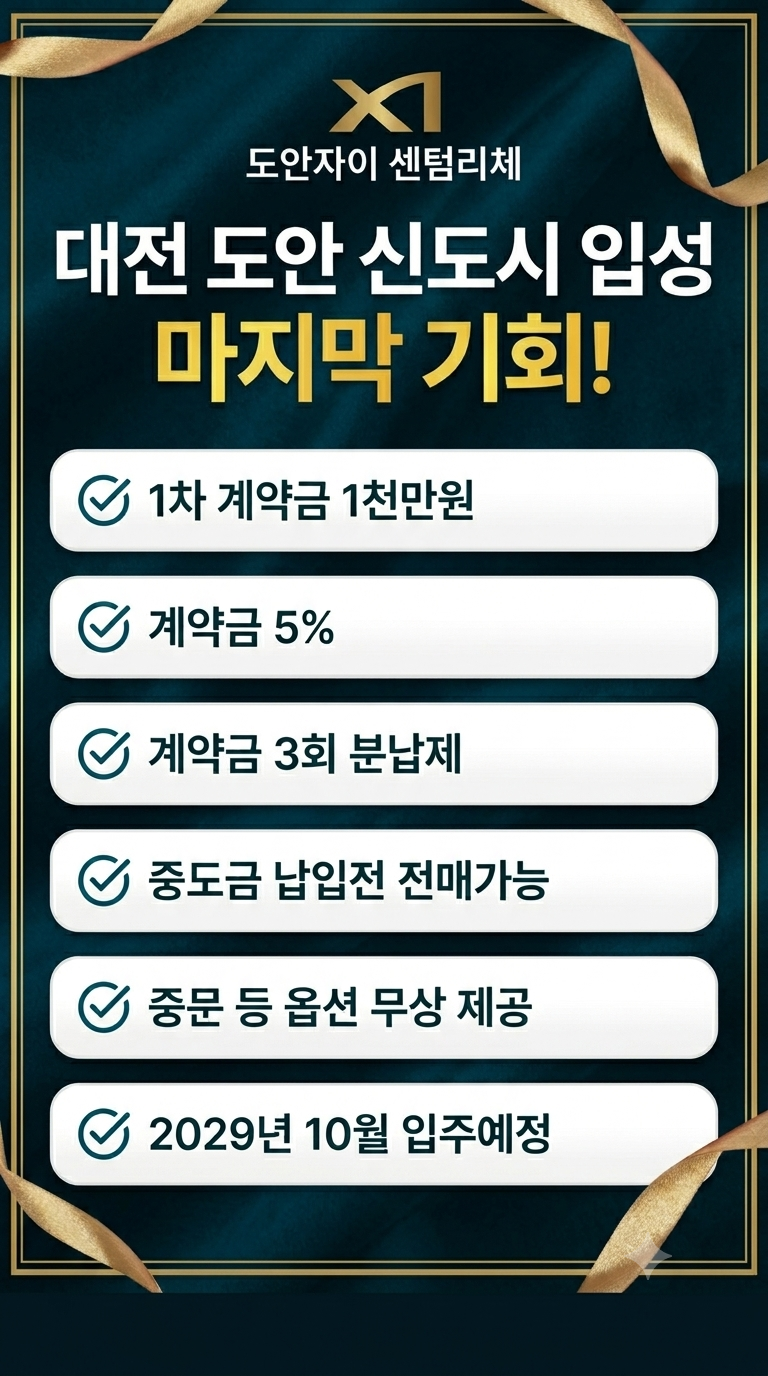
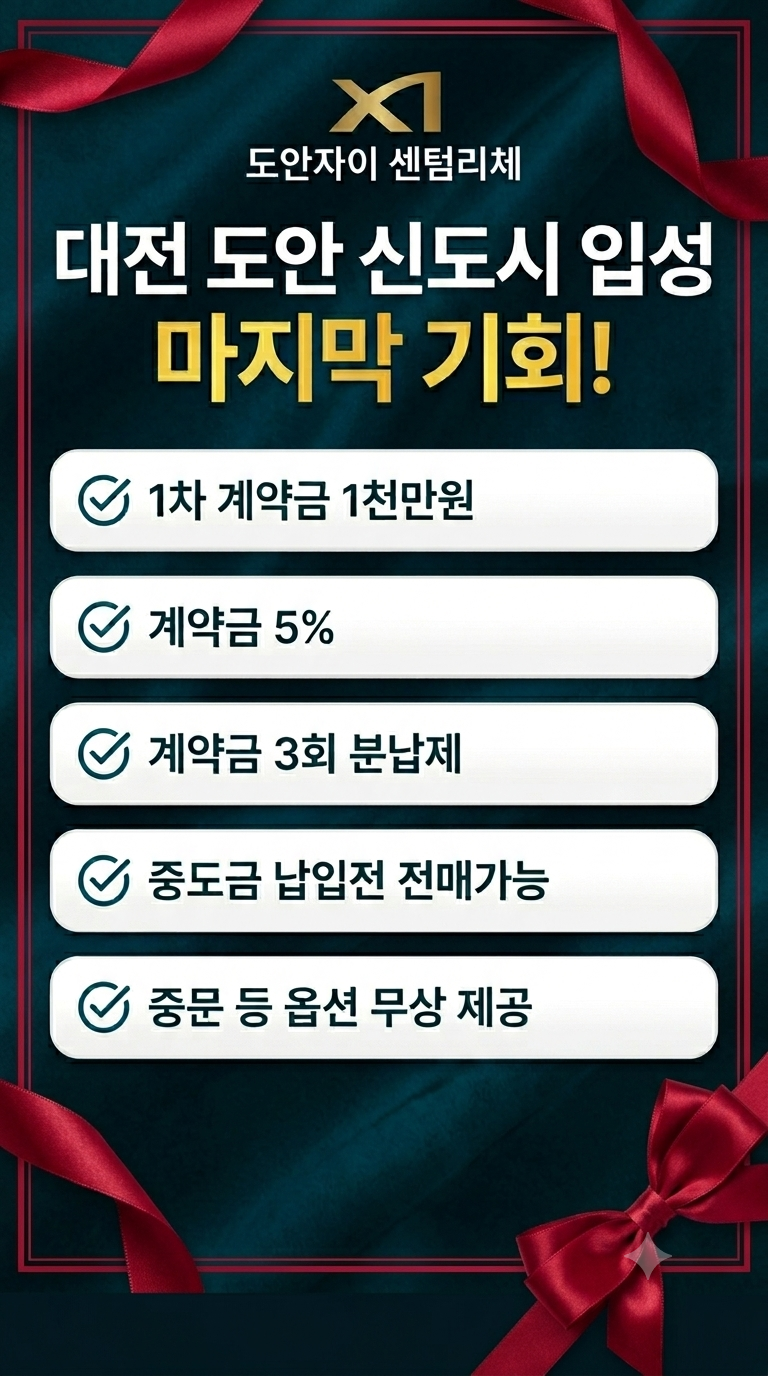
chore(leadform): Apps Script 엔드포인트 갱신(메일 수신자·연락처 텍스트서식 반영본)

Changed region(s): [[0.0, 0.0, 1.0, 1.0]]

diff --git a/src/data/site.ts b/src/data/site.ts
@@ -31,7 +31,7 @@ export const site = {
    *  → 백엔드 없이 동작하는 방법(택1): Formspree / Google Apps Script / 네이버 폼 등
    *  → endpoint 가 비어 있으면 "전화/문자"로 유도하는 폴백 동작 */
   leadForm: {
-    endpoint: 'https://script.google.com/macros/s/AKfycbytFDVaRpF9hnk3ggbSmFMRg1UvjKZEr00kS1Tb8xtImI959HwJ07KSWohAIYPEvazK/exec', // Google Apps Script 웹앱 → 구글 시트 누적
+    endpoint: 'https://script.google.com/macros/s/AKfycbxNIS2ha8LxXu67Jet-aUiRZOWFDEebLcVkYD9EJdyqipaTwYAT1iISkba6wi5O2A6L/exec', // Google Apps Script 웹앱 → 구글 시트 누적
     // 수집 항목: 별도(관심평형 포함) vs 연락처만 — 클라이언트 확정 후 fields 조정
     askInterestType: true, // false 면 이름+연락처만 수집
     gift: '관심고객 등록·방문 상담 시 방문 사은품(신세계상품권)을 드립니다.',